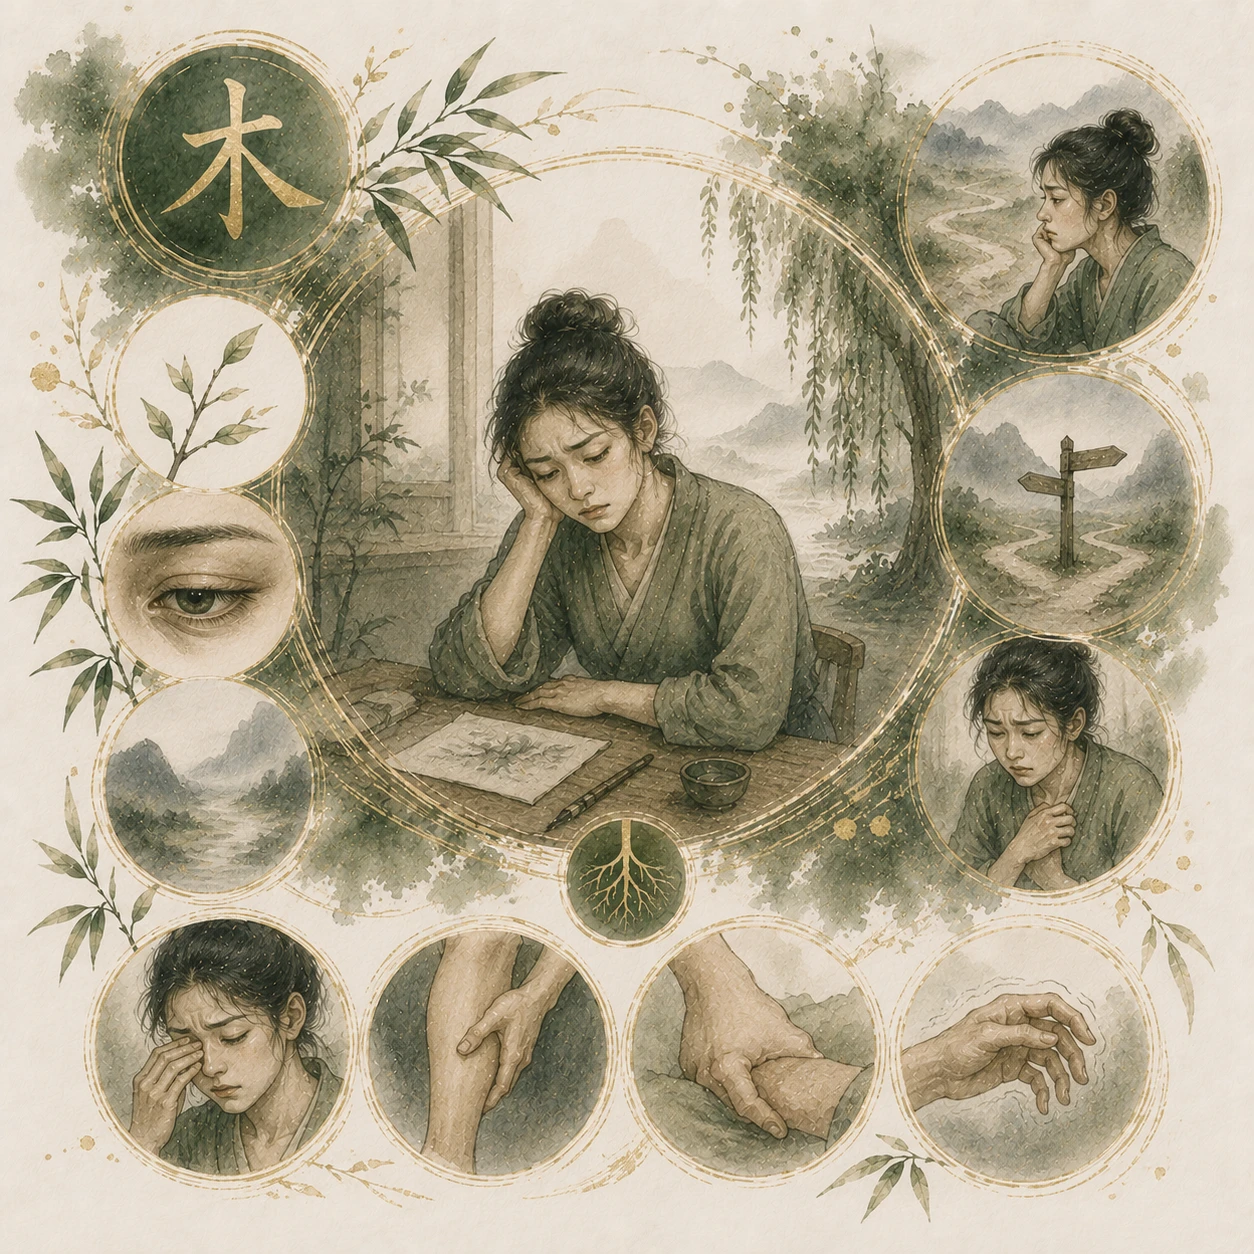
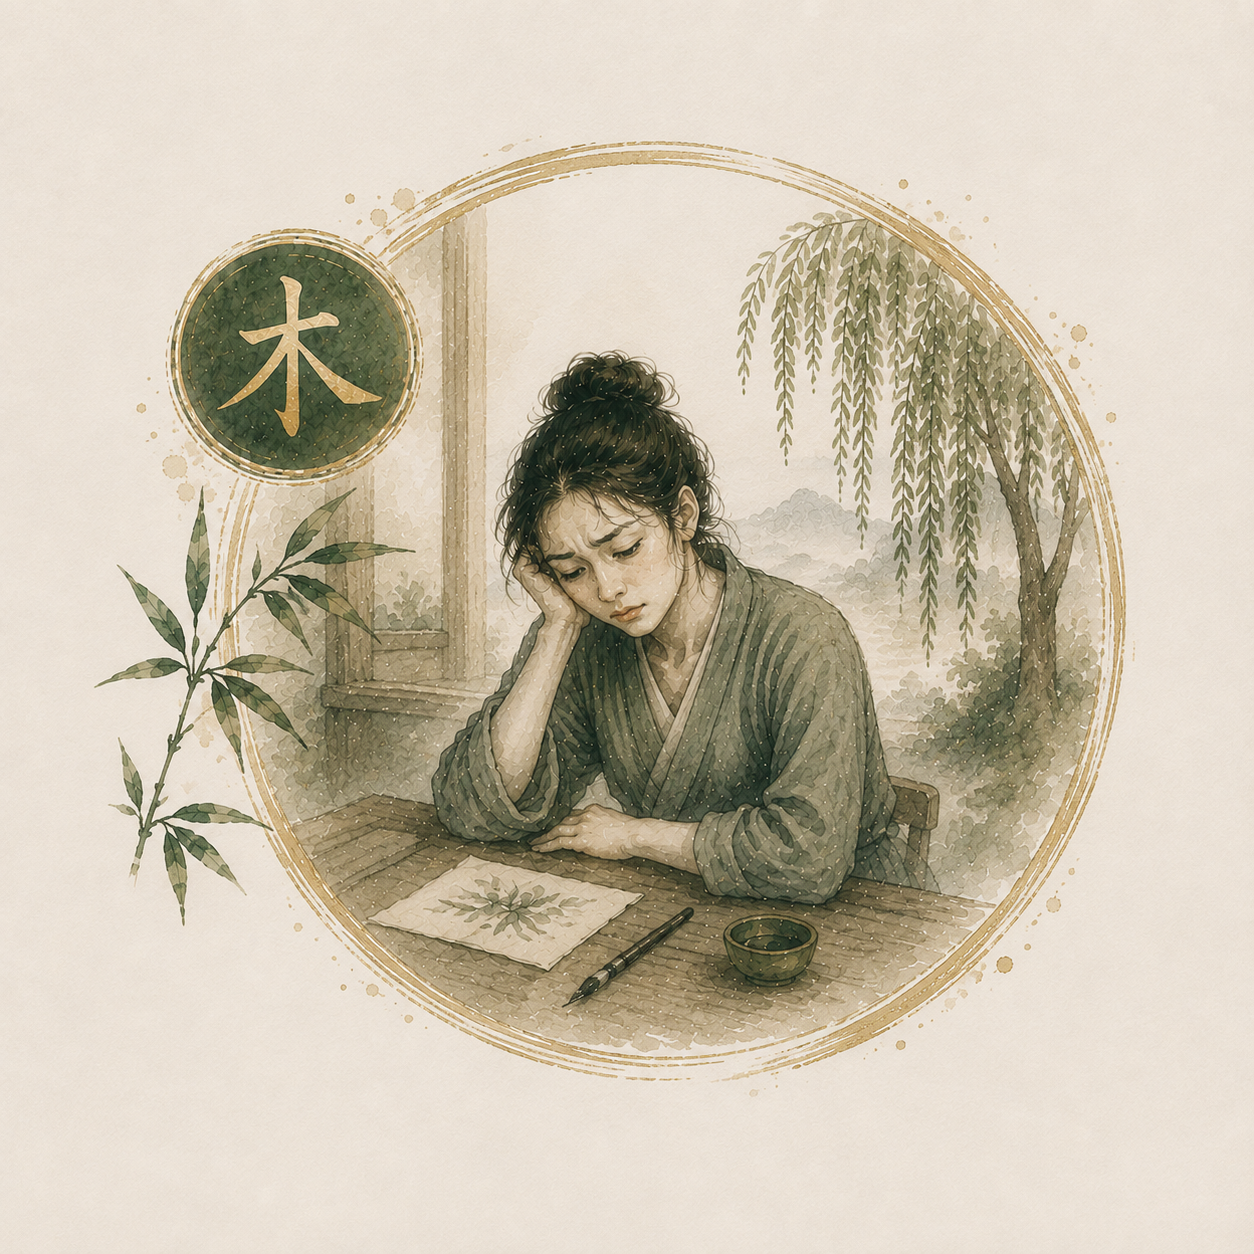
Ilustraciones nuevas: cierre del comic del origen, Madera y meditación
- viñetas/elMapa: las cinco que faltaban (Ayurveda, Cábala, Cultura, El
  descubrimiento y Life as a Privilege). El cómic del origen ya no tiene ningún
  hueco: las once viñetas tienen su acuarela.
- recorrido/tcm/madera: madera1-5. La carpeta estaba vacía, así que todo el
  cómic de Madera se veía con «Viñeta N próximamente».
- viñetas/fisiologia/meditacion: 1-6, el cómic «La meditación y el cerebro».

Van en PNG y se convierten a WebP en el commit siguiente: se suben antes para
que el original quede en el historial, que es de donde REVERTIR.md saca la
vuelta atrás.

diff --git a/frontend/src/components/metodo/comicElMapa.ts b/frontend/src/components/metodo/comicElMapa.ts
@@ -9,10 +9,18 @@
 // ser el mismo que el del componente: en Windows dos rutas que solo difieren en
 // mayúsculas rompen tsc.
 //
-// Ilustraciones en public/viñetas/elMapa/. Las que aún no existen se dejan sin
-// `src`: el box enseña un hueco elegante (el mandala latiendo) y el texto se lee
-// igual, así el guion está completo desde el primer día y las acuarelas se van
-// cayendo cuando estén (solo hay que rellenar el `src`).
+// ── CÓMO SUBIR UNA ACUARELA ──────────────────────────────────────────────
+// Se deja el PNG en `frontend/public/viñetas/elMapa/` con el NOMBRE EXACTO que
+// ya tiene escrito su viñeta aquí abajo (en el `src`), y aparece sola. No hay
+// que tocar código: todas las viñetas tienen su ruta puesta de antemano, y
+// mientras el archivo no exista el box enseña un hueco elegante (el mandala
+// latiendo, sin avisos de «próximamente») y el texto se lee igual.
+//
+// Pendientes ahora mismo: comicinicioayurveda, comiciniciocabala,
+// comiciniciocultura, comiciniciodescubrimiento, comiciniciofinal.
+//
+// Las acuarelas van CUADRADAS (las que ya hay son 1254×1254). Si se sube una que
+// no lo sea, el box la recorta por arriba y por abajo para llenar el cuadrado.
 // ─────────────────────────────────────────────────────────────────────────
 
 import {
@@ -79,7 +87,7 @@ export const COMIC_POR_QUE_EXISTE: VinetaMapa[] = [
     ],
   },
   {
-    // Foto pendiente.
+    src: `${P}/comicinicioayurveda.png`,
     titulo: "Ayurveda",
     disciplina: ayurvedaNom,
     lineas: [
@@ -115,7 +123,7 @@ export const COMIC_POR_QUE_EXISTE: VinetaMapa[] = [
     ],
   },
   {
-    // Foto pendiente.
+    src: `${P}/comiciniciocabala.png`,
     titulo: "Cábala",
     disciplina: cabalaNom,
     lineas: [
@@ -130,6 +138,7 @@ export const COMIC_POR_QUE_EXISTE: VinetaMapa[] = [
     // TEXTO PROVISIONAL: está escrito para que el mapa funcione desde ya, pero
     // es tu voz la que tiene que contarlo — reescríbelo cuando quieras (y la
     // acuarela, cuando la tengas, va en el `src`).
+    src: `${P}/comiciniciocultura.png`,
     titulo: "Cultura e Historia",
     disciplina: culturaNom,
     lineas: [
@@ -138,7 +147,7 @@ export const COMIC_POR_QUE_EXISTE: VinetaMapa[] = [
     ],
   },
   {
-    // Foto pendiente.
+    src: `${P}/comiciniciodescubrimiento.png`,
     titulo: "El descubrimiento",
     lineas: [
       "Entonces lo entendí.",
@@ -147,7 +156,8 @@ export const COMIC_POR_QUE_EXISTE: VinetaMapa[] = [
     ],
   },
   {
-    // Foto pendiente. Viñeta de CIERRE: aquí el mapa de al lado se une.
+    // Viñeta de CIERRE: aquí el mapa de al lado se une.
+    src: `${P}/comiciniciofinal.png`,
     titulo: "Life as a Privilege",
     cierre: true,
     lineas: [

diff --git a/frontend/src/components/metodo/tcmElementosContenido.ts b/frontend/src/components/metodo/tcmElementosContenido.ts
@@ -581,12 +581,15 @@ export interface PasoTest { tipo: "test"; src: string; intro?: string[]; testKey
 export type PasoComic = PasoVineta | PasoTest;
 
 // Fotos del cómic de Madera (/public/recorrido/tcm/madera): 1 intro/qué rige,
-// 2 exceso, 3 deficiencia, 4 reequilibrar (nutrición + estilo de Vida).
+// 2 exceso, 3 deficiencia, 4 nutrición, 5 estilo de Vida. Mismo reparto que
+// Fuego: la nutrición y el estilo de Vida son dos viñetas distintas, así que
+// cada una lleva su ilustración (antes las dos repetían la 4).
 const FOTOS_MADERA = {
   intro: "/recorrido/tcm/madera/madera1.png",
   exceso: "/recorrido/tcm/madera/madera2.png",
   deficiencia: "/recorrido/tcm/madera/madera3.png",
-  reequilibrar: "/recorrido/tcm/madera/madera4.png",
+  nutricion: "/recorrido/tcm/madera/madera4.png",
+  estilo: "/recorrido/tcm/madera/madera5.png",
 };
 
 // Madera · viñetas con el texto del curso (voz de María).
@@ -625,7 +628,7 @@ const comicMadera: PasoComic[] = [
   },
   {
     tipo: "vineta",
-    src: FOTOS_MADERA.reequilibrar,
+    src: FOTOS_MADERA.nutricion,
     paragraphs: [
       "Para reequilibrar la Madera, favorece alimentos que apoyen el hígado y el libre flujo del Qi:",
       "Verduras amargas como diente de león, rúcula o kale; alimentos ácidos como limón, vinagre o encurtidos; hierbas frescas como menta, albahaca y perejil; germinados y té verde.",
@@ -633,7 +636,7 @@ const comicMadera: PasoComic[] = [
   },
   {
     tipo: "vineta",
-    src: FOTOS_MADERA.reequilibrar,
+    src: FOTOS_MADERA.estilo,
     paragraphs: [
       "La Madera necesita movimiento, dirección y expresión: muévete por la mañana (estiramientos, Qi Gong o artes marciales), da forma a tu creatividad planificando o escribiendo nuevos proyectos y practica límites sanos para no acumular frustración.",
       "Descansa alrededor de las 22:30, cuando su energía empieza a relajarse, y elige un ejercicio dinámico pero no agresivo, de movimiento continuo y flexible.",
